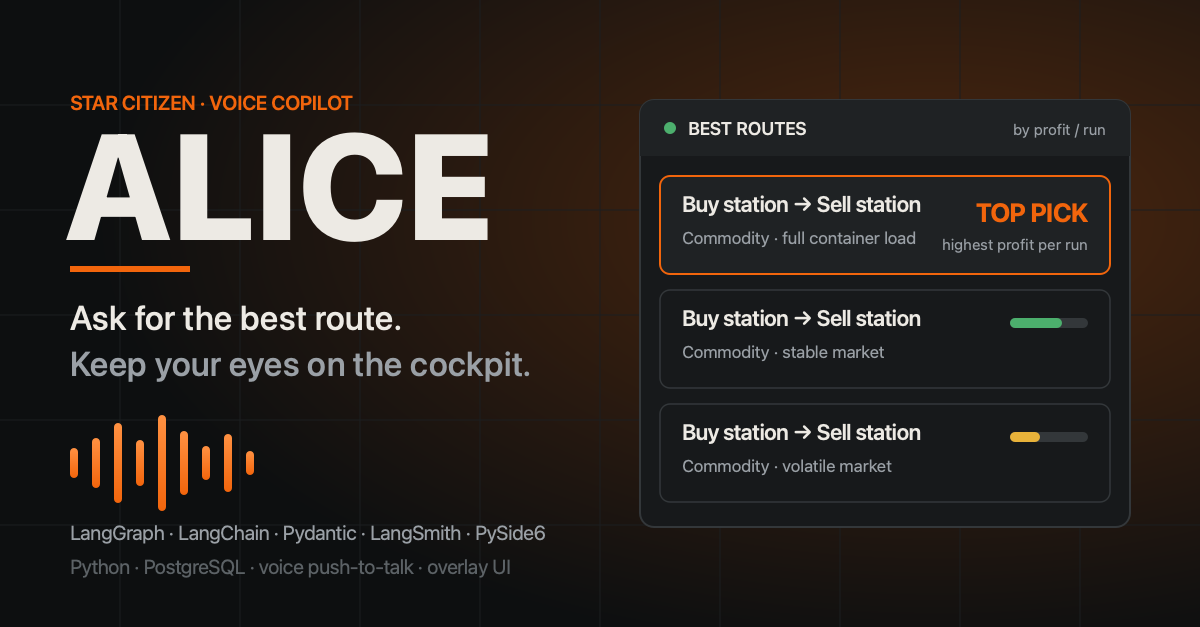
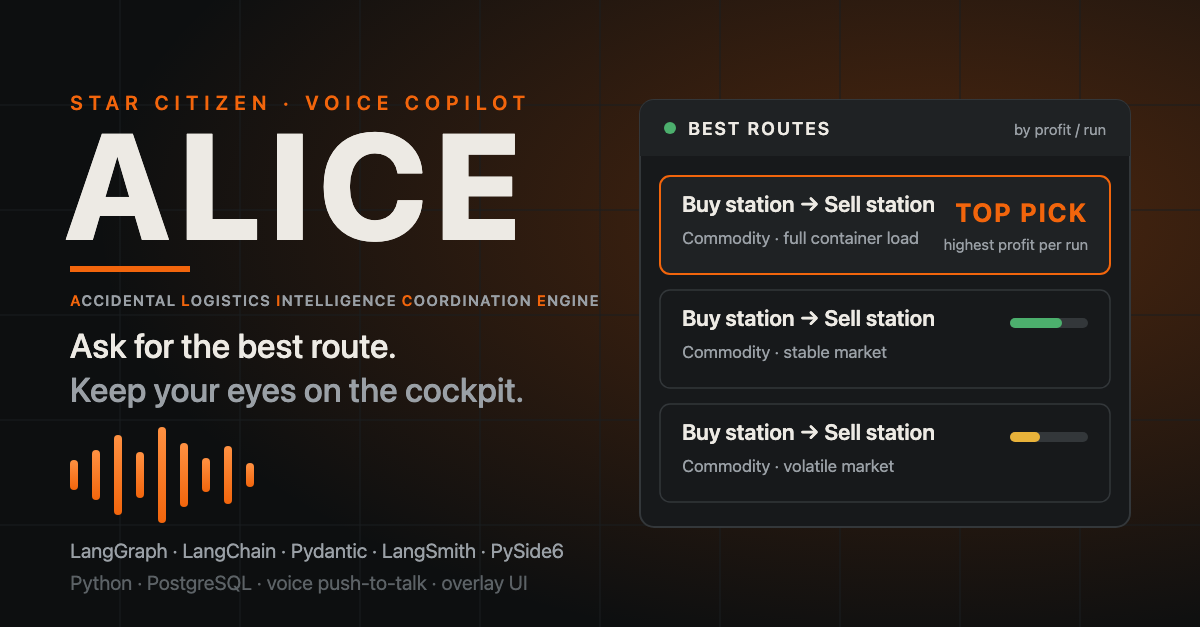
Spell out the ALICE acronym on the login pages and hero image

diff --git a/app/auth/login_pages.py b/app/auth/login_pages.py
@@ -173,9 +173,10 @@ _PAGE = """<!doctype html>
   .bar {{ display: block; width: 52px; height: 4px; margin-top: 12px; background: var(--accent); }}
   .tagline {{
     display: block; margin-top: 14px;
-    font-size: 12px; font-weight: 600; letter-spacing: 0.3em; text-transform: uppercase;
-    color: var(--accent);
+    font-size: 12px; font-weight: 600; letter-spacing: 0.12em; text-transform: uppercase;
+    color: var(--text-2);
   }}
+  .tagline b {{ font-weight: 600; color: var(--accent); }}
   .card {{
     background: var(--surface);
     border: 1px solid var(--border);
@@ -222,7 +223,7 @@ _PAGE = """<!doctype html>
   <header class="brand" aria-label="ALICE">
     <span class="wordmark">ALICE</span>
     <span class="bar"></span>
-    <span class="tagline">Star Citizen · Voice copilot</span>
+    <span class="tagline"><b>A</b>ccidental <b>L</b>ogistics <b>I</b>ntelligence <b>C</b>oordination <b>E</b>ngine</span>
   </header>
   <section class="card {tone}">
     <p class="eyebrow"><span class="dot"></span>{eyebrow}</p>
